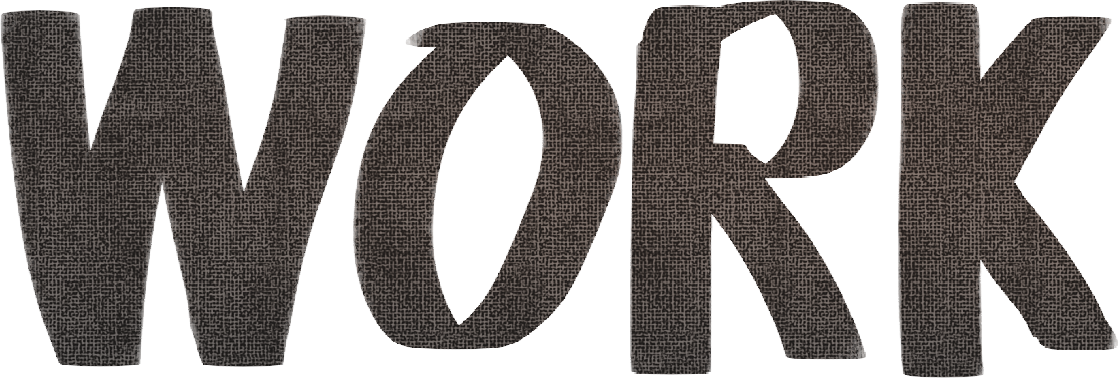
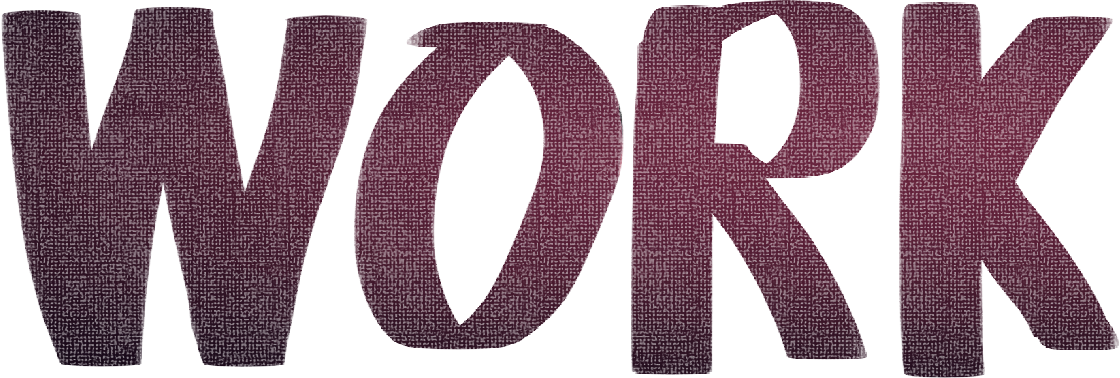
Update color style

diff --git a/src/App.tsx b/src/App.tsx
@@ -4,13 +4,11 @@ import { useEffect, useState } from 'react';
 
 import ImageSlide from '@components/ImageSlide/ImageSlide';
 import ProjectSlide from '@components/ProjectSlide/ProjectSlide';
-
-import blahaj from '@/assets/roomImages/blahaj.png';
-import wall from '@/assets/roomImages/wall.png';
-
-import workText from '@/assets/text/workMarker.png';
-import polaroid from '@/assets/polaroid.jpg';
 import StartScreen from './components/screens/StartScreen';
+
+import wall from '@/assets/roomImages/wall.png';
+import workText from '@/assets/text/workMarker.png';
+import polaroid from '@/assets/polaroid.png';
 
 
 function App() {

diff --git a/src/components/PolaroidDivider/PolaroidDivider.module.css b/src/components/PolaroidDivider/PolaroidDivider.module.css
@@ -1,9 +1,10 @@
 .container {
 	width: 100%;
 	z-index: 4;
-	box-shadow: 0 4px 17px 5px rgb(0, 0, 0);
+	box-shadow: 0 4px 17px 5px var(--shadow);
 	color: black;
-	background-image: url('@/assets/polaroid.jpg');
+	background-image: url('@/assets/polaroid.png');
+	background-position: center;
 	padding: 15px 0px 15px 50px;
 	/* Maybe add some rotation? rotate: 0deg; */
 }

diff --git a/src/App.css b/src/App.css
@@ -22,5 +22,5 @@
 
 .project-image {
 	object-fit: contain;
-	box-shadow: 0 4px 17px 5px rgb(0, 0, 0);
+	box-shadow: 0 4px 17px 5px var(--shadow);
 }

diff --git a/public/style.css b/public/style.css
@@ -1,3 +1,7 @@
+:root {
+	--shadow: rgb(147, 97, 48);
+}
+
 html,
 body {
 	font-family: "Comfortaa", sans-serif;
